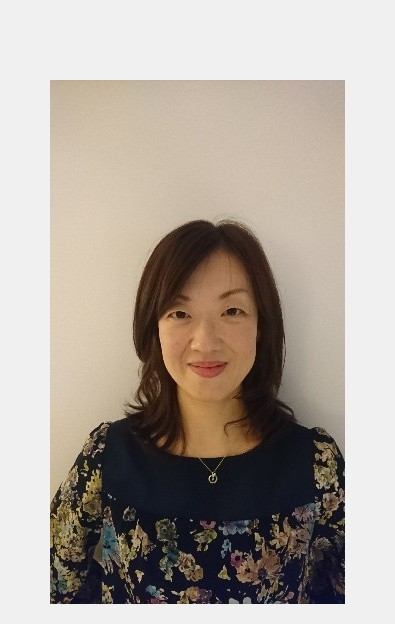
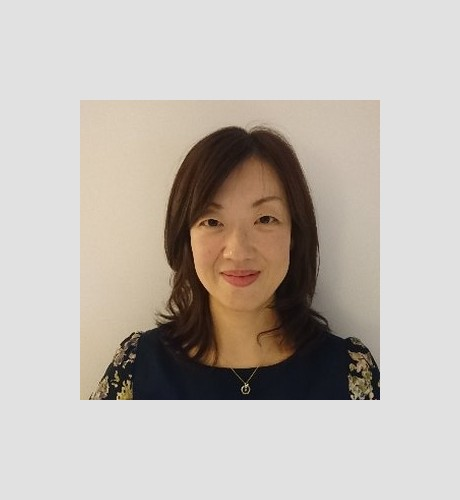
岩城先生の写真：最初の写真を正しく回転・余白追加で遠く調整（v13）

diff --git a/index.html b/index.html
@@ -903,7 +903,7 @@ body.high-contrast{filter:contrast(1.55) brightness(0.95)}
     <div class="spk-grid reveal">
 
       <div class="spk-card" onclick="openSpk('iwaki')">
-        <img class="spk-photo" src="speaker-iwaki.jpg?v=12" alt="岩城忍先生" loading="lazy">
+        <img class="spk-photo" src="speaker-iwaki.jpg?v=13" alt="岩城忍先生" loading="lazy">
         <div class="spk-body">
           <span class="spk-day d2">8/2 Part 2</span>
           <div class="spk-dept">🗣 言語聴覚士</div>
